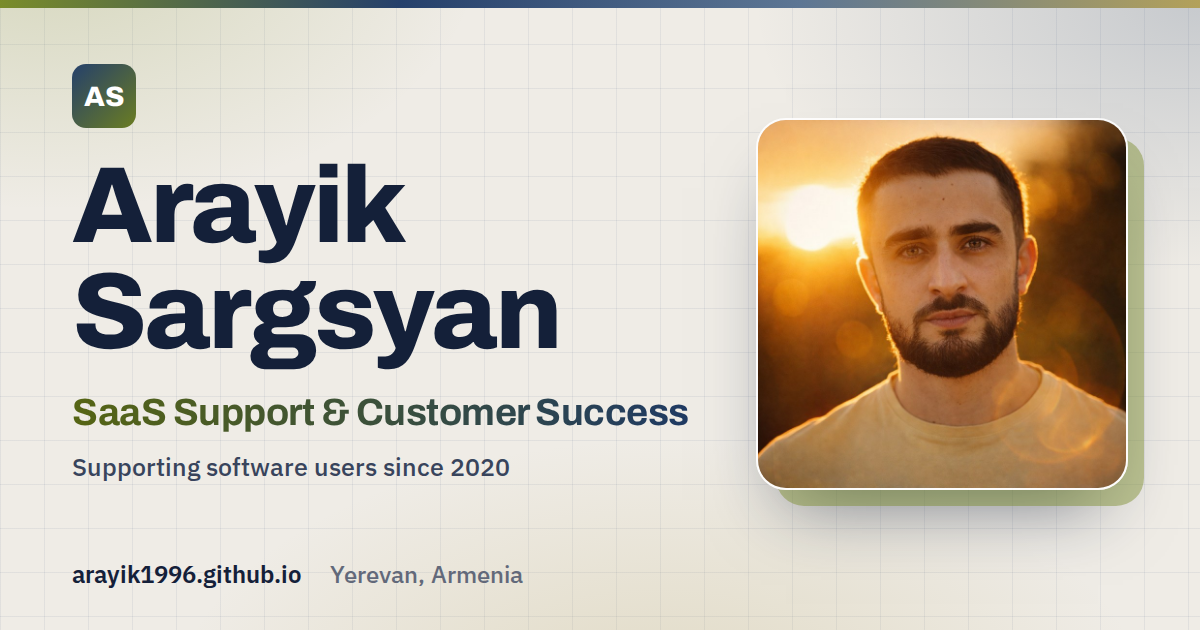
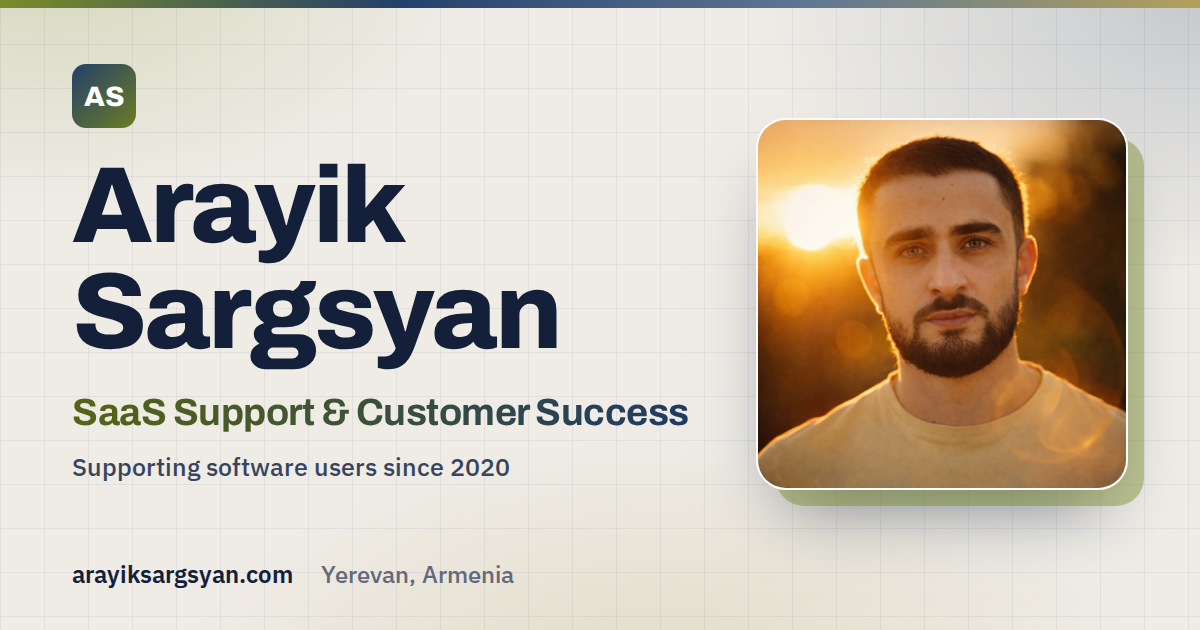
Add files via upload

Changed region(s): [[0.0925, 0.8746, 0.4317, 0.9349]]

diff --git a/index.html b/index.html
@@ -8,21 +8,21 @@
 <title>Arayik Sargsyan | SaaS Support &amp; Customer Success</title>
 <link rel="icon" type="image/png" href="favicon.png">
 <link rel="apple-touch-icon" href="favicon.png">
-<script type="application/ld+json">{"@context": "https://schema.org", "@type": "Person", "name": "Arayik Sargsyan", "jobTitle": "Senior Product Support Specialist", "description": "SaaS support and customer success professional working in technical support since 2020. Senior Product Support Specialist at Aderant. Based in Yerevan, Armenia.", "url": "https://arayik1996.github.io/", "image": "https://arayik1996.github.io/og-image.png", "address": {"@type": "PostalAddress", "addressLocality": "Yerevan", "addressCountry": "AM"}, "worksFor": {"@type": "Organization", "name": "Aderant"}, "alumniOf": [{"@type": "CollegeOrUniversity", "name": "University of Jordan"}, {"@type": "CollegeOrUniversity", "name": "Yerevan State University"}], "knowsLanguage": ["hy", "en", "ru", "ar"], "knowsAbout": ["Technical support", "SaaS platform support", "Customer success", "Salesforce Service Cloud", "Zendesk", "Knowledge base management"], "sameAs": ["https://www.linkedin.com/in/arayik-sargsyan", "https://github.com/Arayik1996"]}</script>
-<link rel="canonical" href="https://arayik1996.github.io/">
+<script type="application/ld+json">{"@context": "https://schema.org", "@type": "Person", "name": "Arayik Sargsyan", "jobTitle": "Senior Product Support Specialist", "description": "SaaS support and customer success professional working in technical support since 2020. Senior Product Support Specialist at Aderant. Based in Yerevan, Armenia.", "url": "https://arayiksargsyan.com/", "image": "https://arayiksargsyan.com/og-image.png", "address": {"@type": "PostalAddress", "addressLocality": "Yerevan", "addressCountry": "AM"}, "worksFor": {"@type": "Organization", "name": "Aderant"}, "alumniOf": [{"@type": "CollegeOrUniversity", "name": "University of Jordan"}, {"@type": "CollegeOrUniversity", "name": "Yerevan State University"}], "knowsLanguage": ["hy", "en", "ru", "ar"], "knowsAbout": ["Technical support", "SaaS platform support", "Customer success", "Salesforce Service Cloud", "Zendesk", "Knowledge base management"], "sameAs": ["https://www.linkedin.com/in/arayik-sargsyan", "https://github.com/Arayik1996"]}</script>
+<link rel="canonical" href="https://arayiksargsyan.com/">
 <meta property="og:type" content="website">
 <meta property="og:site_name" content="Arayik Sargsyan">
 <meta property="og:title" content="Arayik Sargsyan | SaaS Support &amp; Customer Success">
 <meta property="og:description" content="Technical support, SaaS support, and customer success since 2020. Based in Yerevan, Armenia.">
-<meta property="og:url" content="https://arayik1996.github.io/">
-<meta property="og:image" content="https://arayik1996.github.io/og-image.png">
+<meta property="og:url" content="https://arayiksargsyan.com/">
+<meta property="og:image" content="https://arayiksargsyan.com/og-image.png">
 <meta property="og:image:width" content="1200">
 <meta property="og:image:height" content="630">
 <meta property="og:image:alt" content="Arayik Sargsyan, SaaS Support &amp; Customer Success, Yerevan, Armenia">
 <meta name="twitter:card" content="summary_large_image">
 <meta name="twitter:title" content="Arayik Sargsyan | SaaS Support &amp; Customer Success">
 <meta name="twitter:description" content="Technical support, SaaS support, and customer success since 2020. Based in Yerevan, Armenia.">
-<meta name="twitter:image" content="https://arayik1996.github.io/og-image.png">
+<meta name="twitter:image" content="https://arayiksargsyan.com/og-image.png">
 <script>try{if(localStorage.getItem("theme-v3")==="dark")document.documentElement.dataset.theme="dark"}catch(e){}</script>
 <link rel="preconnect" href="https://fonts.googleapis.com">
 <link rel="preconnect" href="https://fonts.gstatic.com" crossorigin>
@@ -1067,7 +1067,7 @@ dialog#trailerDialog::backdrop{background:rgba(10,20,36,.72);backdrop-filter:blu
      It only loads on the live address(es) below, so tests and previews aren't counted.
   ================================================================ */
   (function visitCounter() {
-    const LIVE_HOSTS = ["arayik1996.github.io"];        // add your custom domain here later
+    const LIVE_HOSTS = ["arayiksargsyan.com", "arayik1996.github.io"];   // addresses where visits are counted
     if (LIVE_HOSTS.indexOf(window.location.hostname) === -1) return;
     window.goatcounter = { endpoint: "https://arayiksargsyan.goatcounter.com/count" };
     const sc = document.createElement("script");
